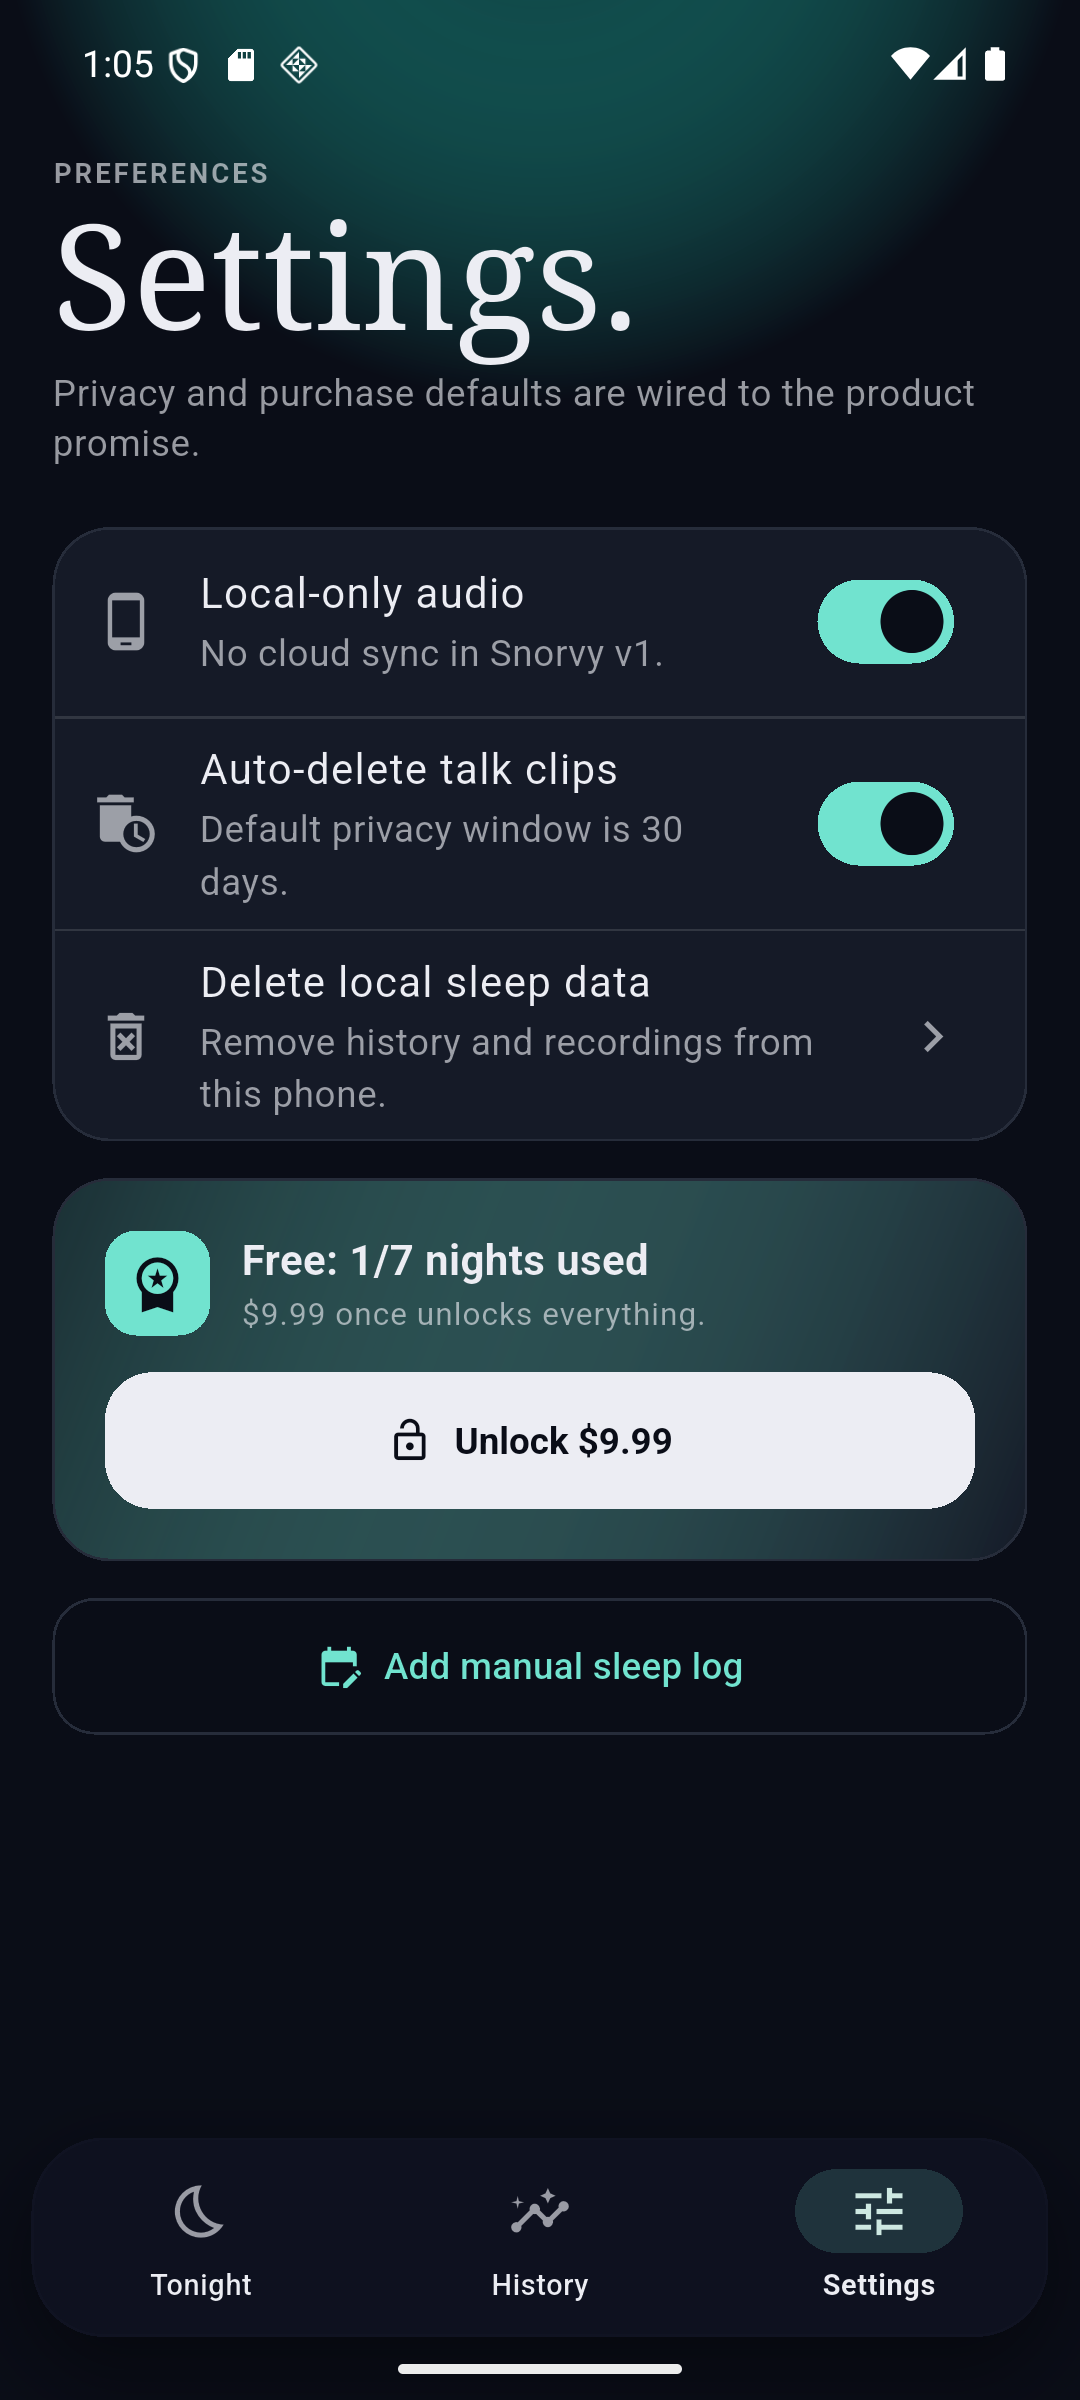
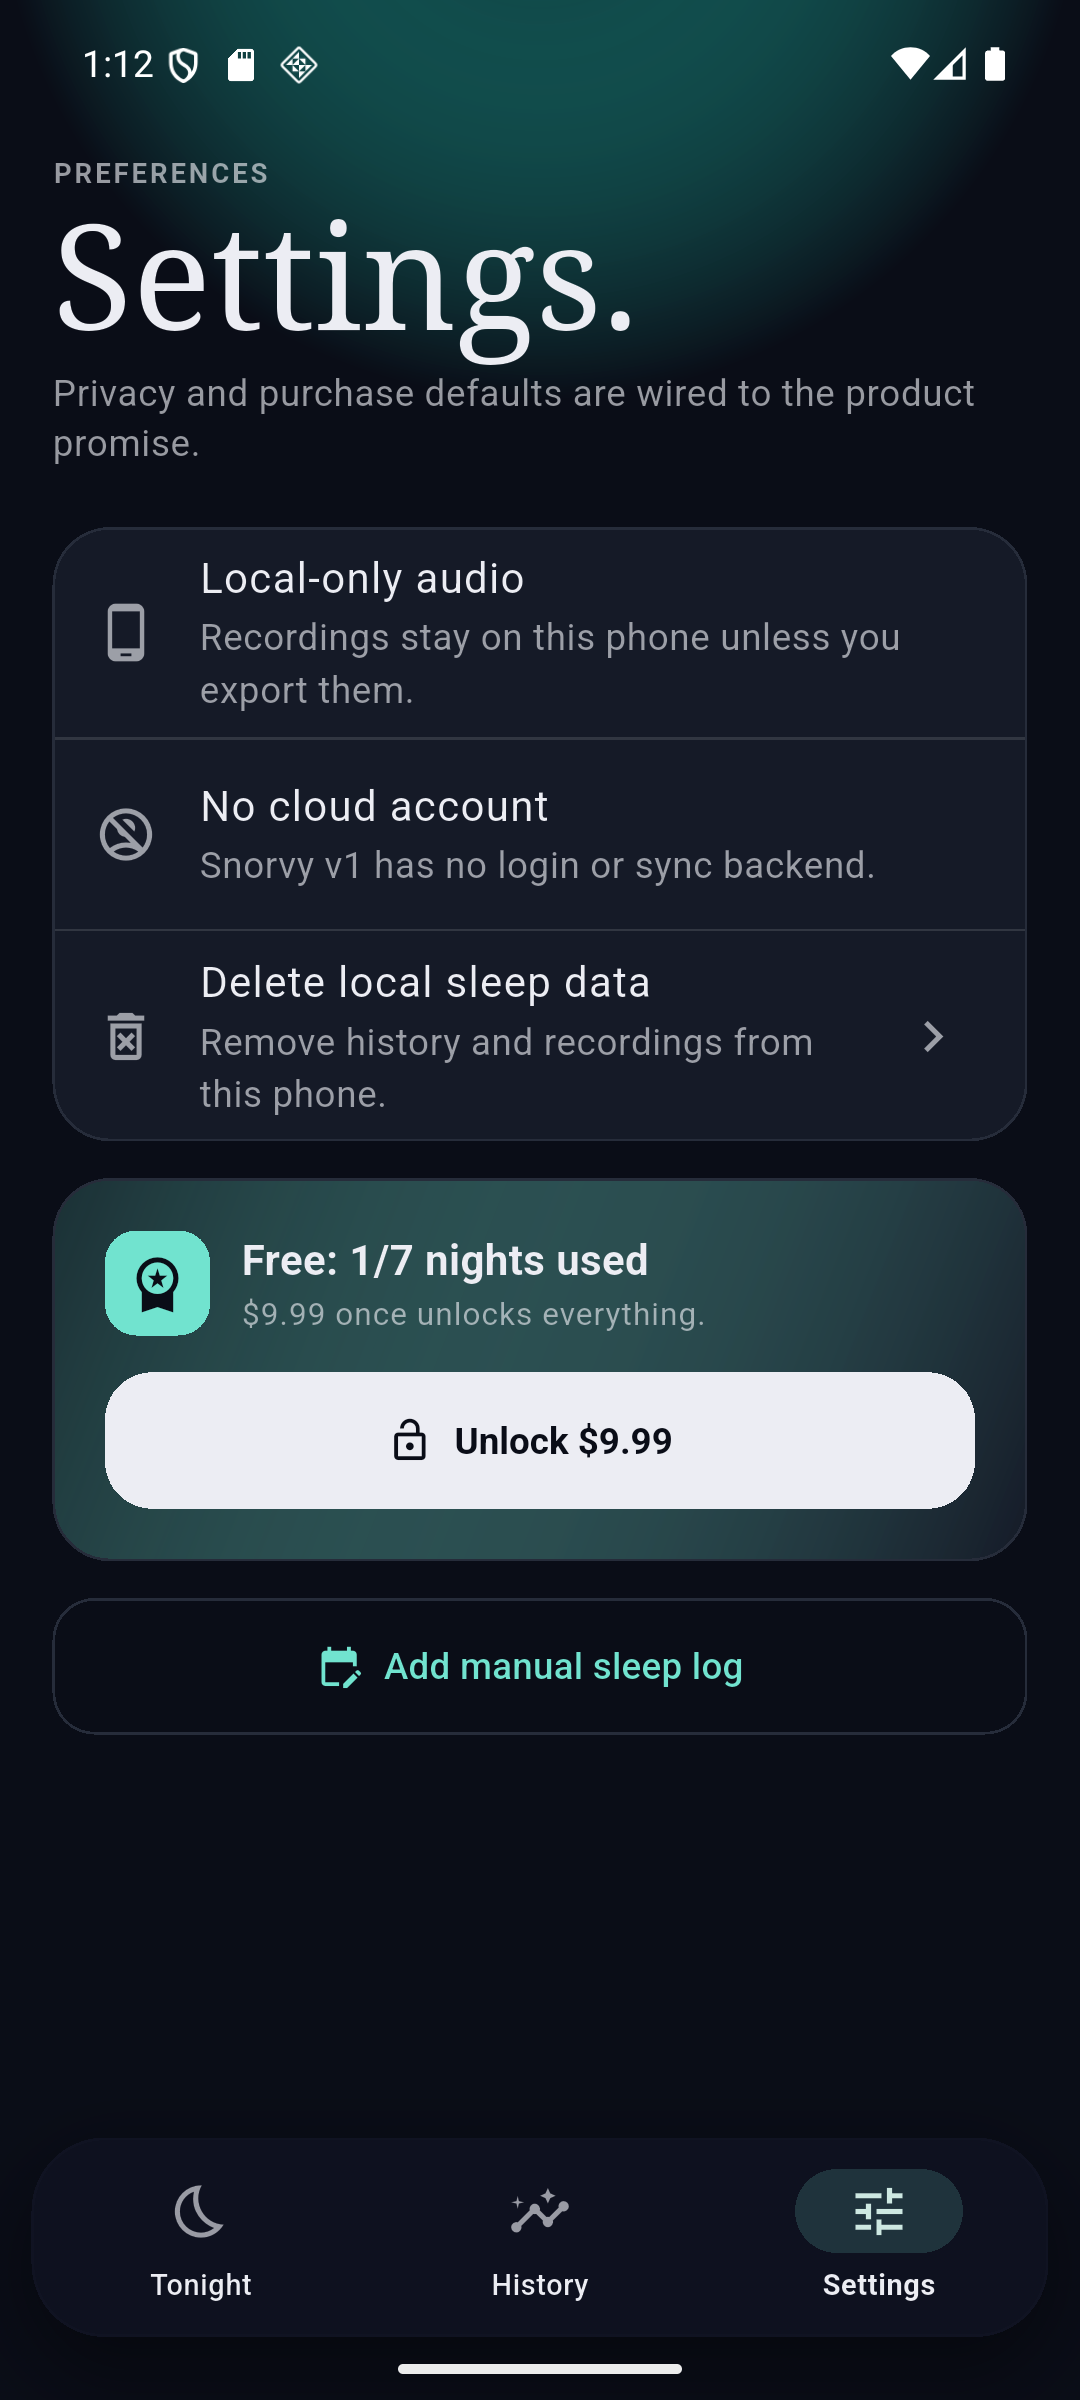
Clarify local-only settings copy

diff --git a/lib/src/features/settings/settings_screen.dart b/lib/src/features/settings/settings_screen.dart
@@ -2,7 +2,7 @@ import 'package:flutter/material.dart';
 import 'package:snorvy/src/theme/snorvy_theme.dart';
 import 'package:snorvy/src/services/unlock_repository.dart';
 
-class SettingsScreen extends StatefulWidget {
+class SettingsScreen extends StatelessWidget {
   const SettingsScreen({
     required this.isBusy,
     required this.unlockState,
@@ -19,14 +19,6 @@ class SettingsScreen extends StatefulWidget {
   final Future<void> Function() onAddManualLog;
   final Future<void> Function() onDeleteAllSleepData;
   final VoidCallback onUnlockTap;
-
-  @override
-  State<SettingsScreen> createState() => _SettingsScreenState();
-}
-
-class _SettingsScreenState extends State<SettingsScreen> {
-  bool _autoDeleteTalkEvents = true;
-  bool _keepAudioLocalOnly = true;
 
   @override
   Widget build(BuildContext context) {
@@ -48,35 +40,29 @@ class _SettingsScreenState extends State<SettingsScreen> {
         Card(
           child: Column(
             children: [
-              SwitchListTile(
-                value: _keepAudioLocalOnly,
-                onChanged: (value) => setState(() {
-                  _keepAudioLocalOnly = value;
-                }),
-                title: const Text('Local-only audio'),
-                subtitle: const Text('No cloud sync in Snorvy v1.'),
-                secondary: const Icon(Icons.phone_android),
+              const ListTile(
+                leading: Icon(Icons.phone_android),
+                title: Text('Local-only audio'),
+                subtitle: Text(
+                  'Recordings stay on this phone unless you export them.',
+                ),
               ),
               const Divider(height: 1),
-              SwitchListTile(
-                value: _autoDeleteTalkEvents,
-                onChanged: (value) => setState(() {
-                  _autoDeleteTalkEvents = value;
-                }),
-                title: const Text('Auto-delete talk clips'),
-                subtitle: const Text('Default privacy window is 30 days.'),
-                secondary: const Icon(Icons.auto_delete),
+              const ListTile(
+                leading: Icon(Icons.no_accounts_outlined),
+                title: Text('No cloud account'),
+                subtitle: Text('Snorvy v1 has no login or sync backend.'),
               ),
               const Divider(height: 1),
               ListTile(
-                enabled: !widget.isBusy,
+                enabled: !isBusy,
                 leading: const Icon(Icons.delete_forever_outlined),
                 title: const Text('Delete local sleep data'),
                 subtitle: const Text(
                   'Remove history and recordings from this phone.',
                 ),
                 trailing: const Icon(Icons.chevron_right),
-                onTap: widget.isBusy
+                onTap: isBusy
                     ? null
                     : () async {
                         final confirmed = await _confirmDeleteAllData(context);
@@ -84,7 +70,7 @@ class _SettingsScreenState extends State<SettingsScreen> {
                           return;
                         }
 
-                        await widget.onDeleteAllSleepData();
+                        await onDeleteAllSleepData();
                         if (!context.mounted) {
                           return;
                         }
@@ -138,14 +124,14 @@ class _SettingsScreenState extends State<SettingsScreen> {
                         crossAxisAlignment: CrossAxisAlignment.start,
                         children: [
                           Text(
-                            widget.unlockState.isUnlocked
+                            unlockState.isUnlocked
                                 ? 'Lifetime unlock active'
-                                : 'Free: ${widget.recordingsThisMonth}/7 nights used',
+                                : 'Free: $recordingsThisMonth/7 nights used',
                             style: Theme.of(context).textTheme.titleMedium
                                 ?.copyWith(fontWeight: FontWeight.w700),
                           ),
                           Text(
-                            '${widget.unlockState.priceLabel} once unlocks everything.',
+                            '${unlockState.priceLabel} once unlocks everything.',
                             style: Theme.of(context).textTheme.bodySmall
                                 ?.copyWith(
                                   color: Theme.of(
@@ -165,14 +151,12 @@ class _SettingsScreenState extends State<SettingsScreen> {
                     backgroundColor: Theme.of(context).colorScheme.onSurface,
                     foregroundColor: SnorvyTheme.midnight,
                   ),
-                  onPressed: widget.unlockState.isUnlocked
-                      ? null
-                      : widget.onUnlockTap,
+                  onPressed: unlockState.isUnlocked ? null : onUnlockTap,
                   icon: const Icon(Icons.lock_open),
                   label: Text(
-                    widget.unlockState.isUnlocked
+                    unlockState.isUnlocked
                         ? 'Unlocked'
-                        : 'Unlock ${widget.unlockState.priceLabel}',
+                        : 'Unlock ${unlockState.priceLabel}',
                   ),
                 ),
               ],
@@ -185,7 +169,7 @@ class _SettingsScreenState extends State<SettingsScreen> {
             minimumSize: const Size.fromHeight(52),
             foregroundColor: SnorvyTheme.neuralMint,
           ),
-          onPressed: widget.isBusy ? null : () => _showManualLogSheet(context),
+          onPressed: isBusy ? null : () => _showManualLogSheet(context),
           icon: const Icon(Icons.edit_calendar),
           label: const Text('Add manual sleep log'),
         ),
@@ -216,7 +200,7 @@ class _SettingsScreenState extends State<SettingsScreen> {
                 const SizedBox(height: 16),
                 FilledButton.icon(
                   onPressed: () async {
-                    await widget.onAddManualLog();
+                    await onAddManualLog();
                     if (!context.mounted) {
                       return;
                     }
